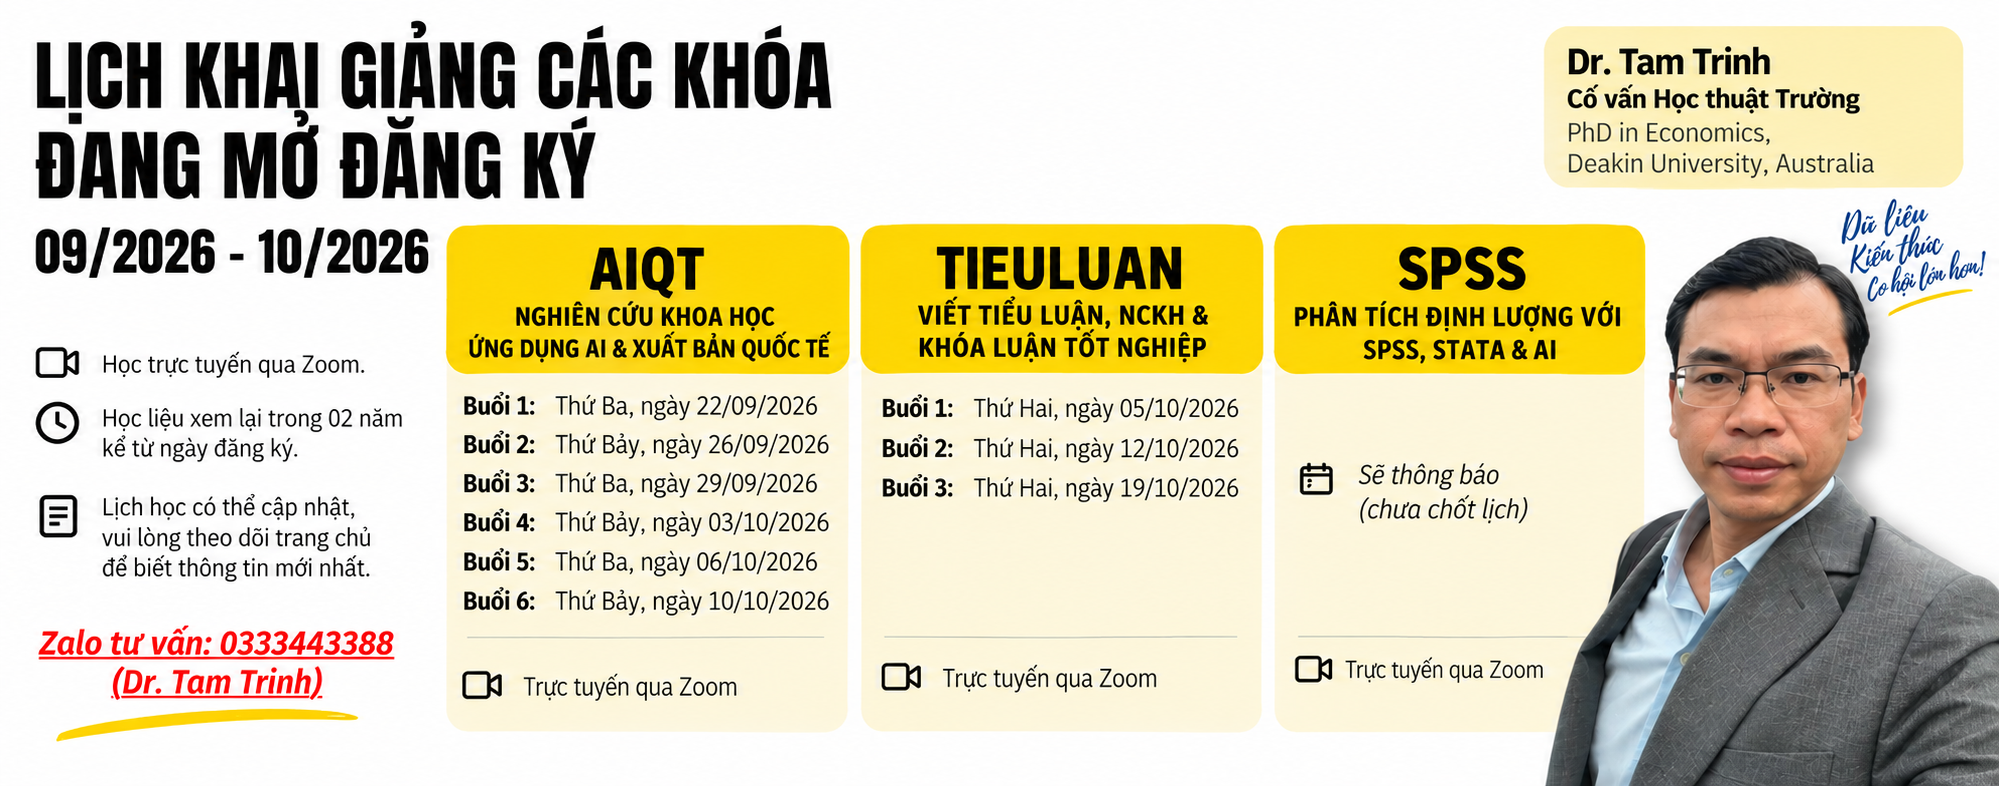
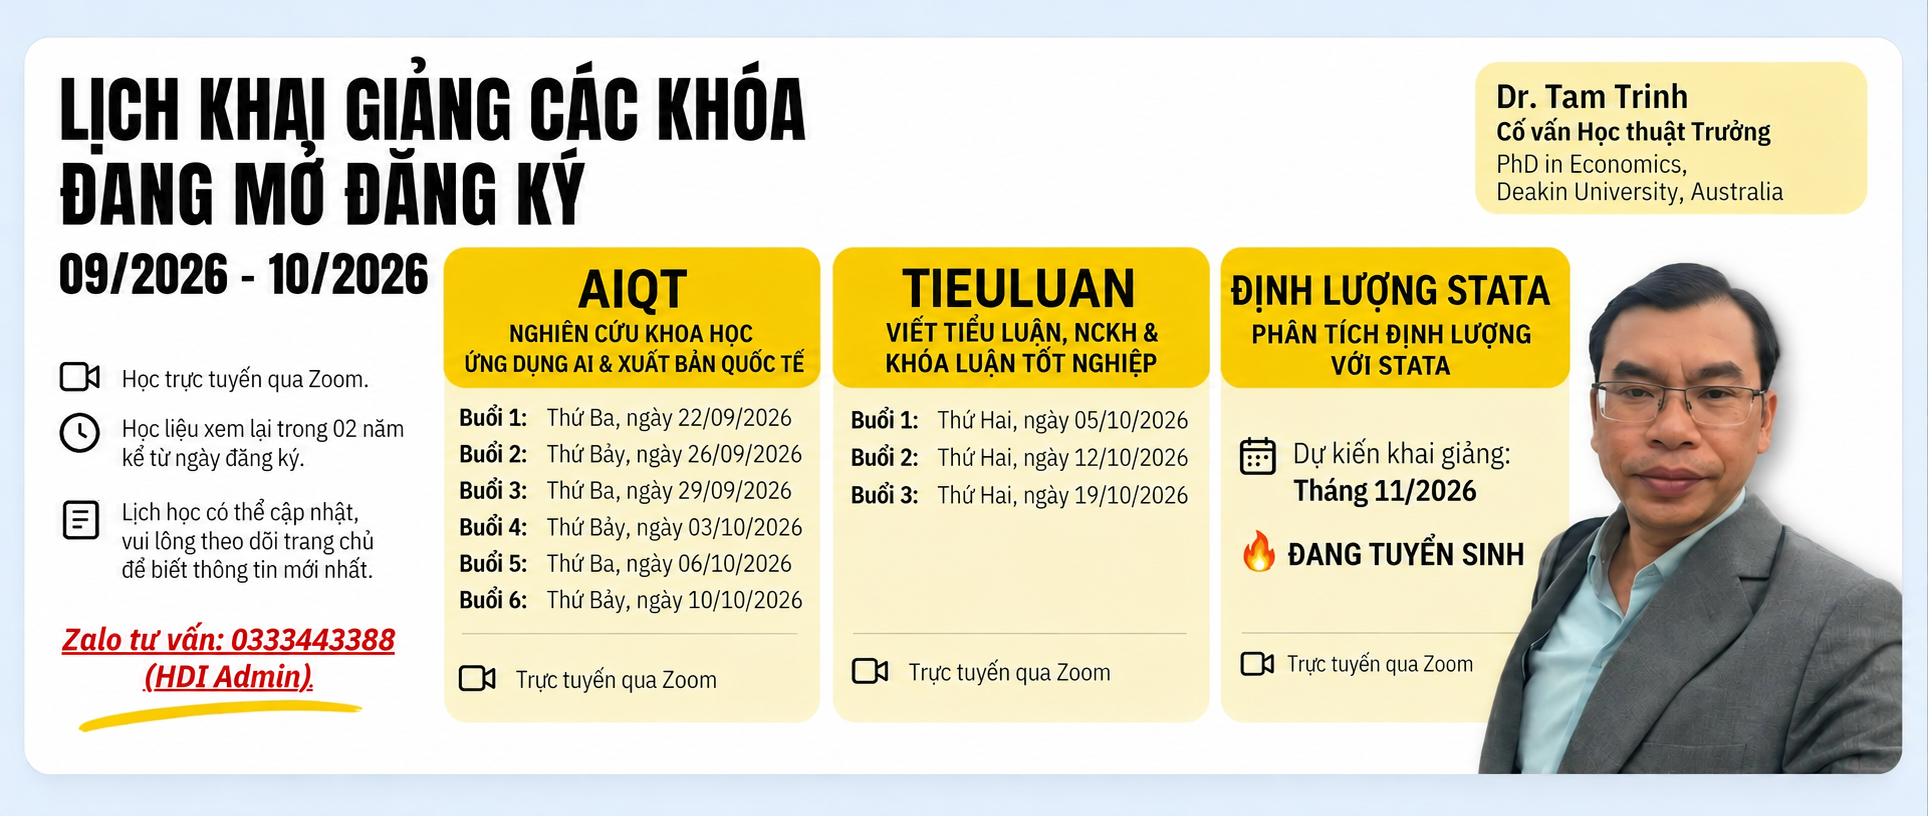
Thay poster lịch khai giảng ở trang chủ bằng bản mới
Ảnh mới (1928x816) đổi cột thứ ba sang "Định lượng Stata, dự kiến khai
giảng tháng 11/2026" và ghi liên hệ Zalo là HDI Admin. Cập nhật width/height
và alt text của OpeningPoster cho khớp ảnh mới.

diff --git a/components/sections/opening-poster.tsx b/components/sections/opening-poster.tsx
@@ -31,9 +31,9 @@ export function OpeningPoster({
           <div className="overflow-hidden rounded-card border border-line bg-card shadow-[0_1px_2px_rgba(23,38,56,0.04),0_16px_32px_-16px_rgba(23,38,56,0.18)]">
             <Image
               src="/images/lich-khai-giang-09-10-2026.png"
-              alt="Lịch khai giảng các khóa đang mở đăng ký, tháng 09/2026 – 10/2026. AIQT — Nghiên cứu khoa học ứng dụng AI & xuất bản quốc tế: Buổi 1 Thứ Ba 22/09, Buổi 2 Thứ Bảy 26/09, Buổi 3 Thứ Ba 29/09, Buổi 4 Thứ Bảy 03/10, Buổi 5 Thứ Ba 06/10, Buổi 6 Thứ Bảy 10/10/2026. TIEULUAN — Viết tiểu luận, NCKH & khóa luận tốt nghiệp: Buổi 1 Thứ Hai 05/10, Buổi 2 Thứ Hai 12/10, Buổi 3 Thứ Hai 19/10/2026. SPSS — Phân tích định lượng với SPSS, Stata & AI: lịch sẽ thông báo. Cả ba khóa học trực tuyến qua Zoom, học liệu xem lại trong 02 năm. Cố vấn học thuật: Dr. Tam Trinh, PhD in Economics, Deakin University. Zalo tư vấn: 0333443388."
-              width={1999}
-              height={786}
+              alt="Lịch khai giảng các khóa đang mở đăng ký, tháng 09/2026 – 10/2026. AIQT — Nghiên cứu khoa học ứng dụng AI & xuất bản quốc tế: Buổi 1 Thứ Ba 22/09, Buổi 2 Thứ Bảy 26/09, Buổi 3 Thứ Ba 29/09, Buổi 4 Thứ Bảy 03/10, Buổi 5 Thứ Ba 06/10, Buổi 6 Thứ Bảy 10/10/2026. TIEULUAN — Viết tiểu luận, NCKH & khóa luận tốt nghiệp: Buổi 1 Thứ Hai 05/10, Buổi 2 Thứ Hai 12/10, Buổi 3 Thứ Hai 19/10/2026. ĐỊNH LƯỢNG STATA — Phân tích định lượng với Stata: dự kiến khai giảng tháng 11/2026, đang tuyển sinh. Cả ba khóa học trực tuyến qua Zoom, học liệu xem lại trong 02 năm. Cố vấn học thuật: Dr. Tam Trinh, PhD in Economics, Deakin University. Zalo tư vấn: 0333443388 (HDI Admin)."
+              width={1928}
+              height={816}
               sizes="(min-width: 1024px) 72rem, 100vw"
               className="h-auto w-full"
             />
